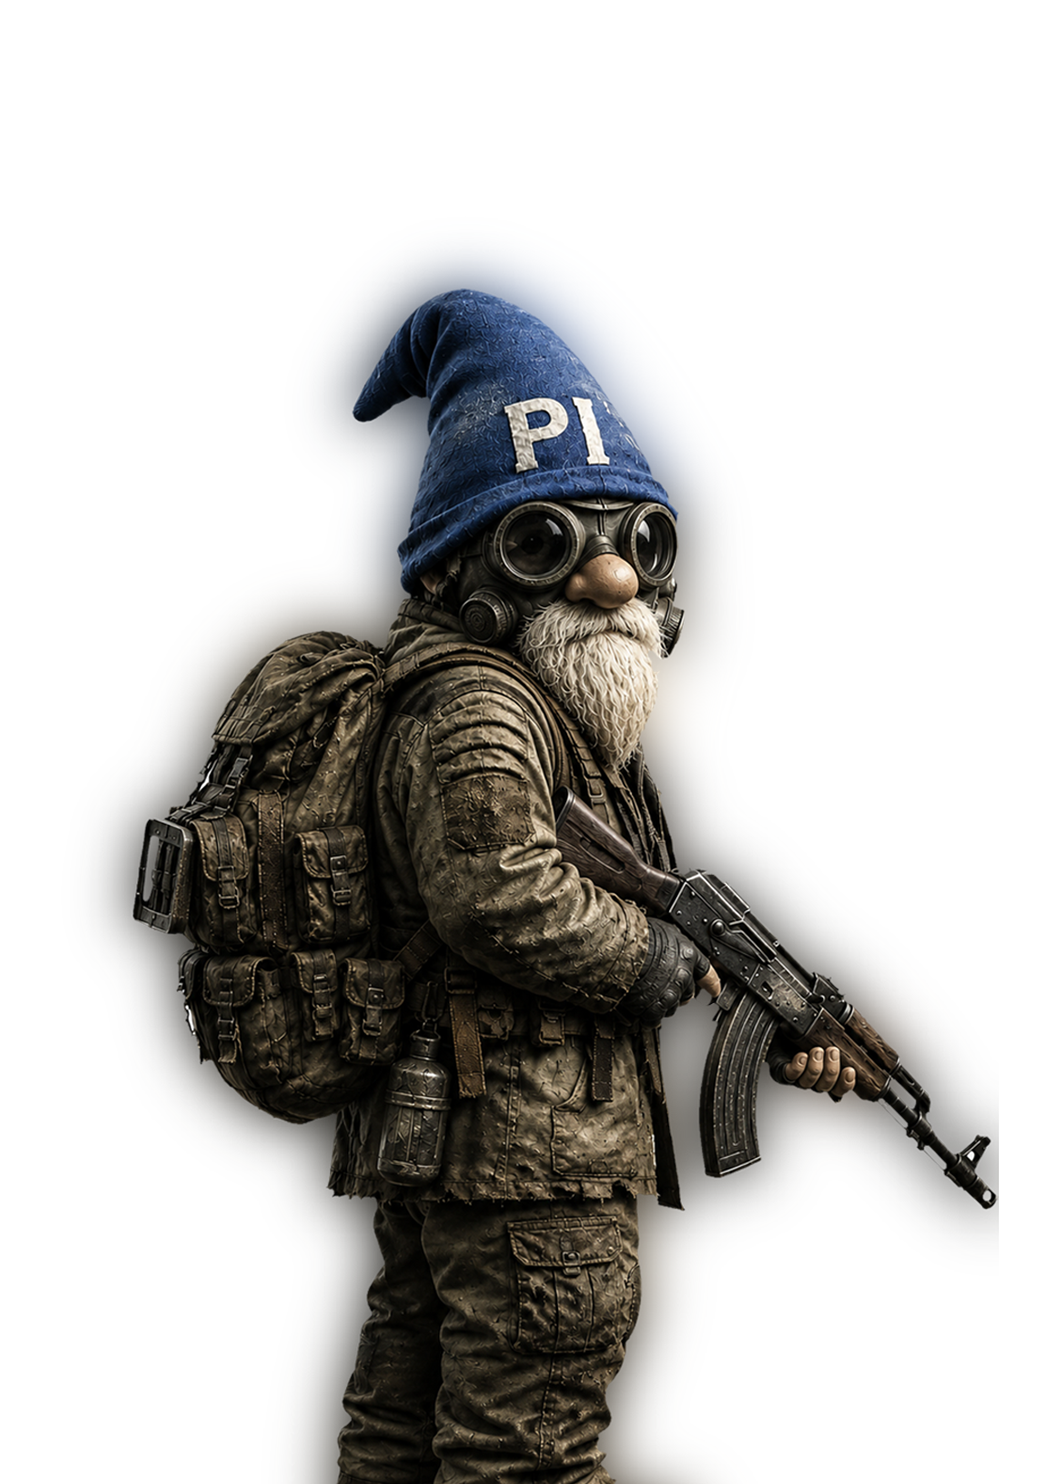
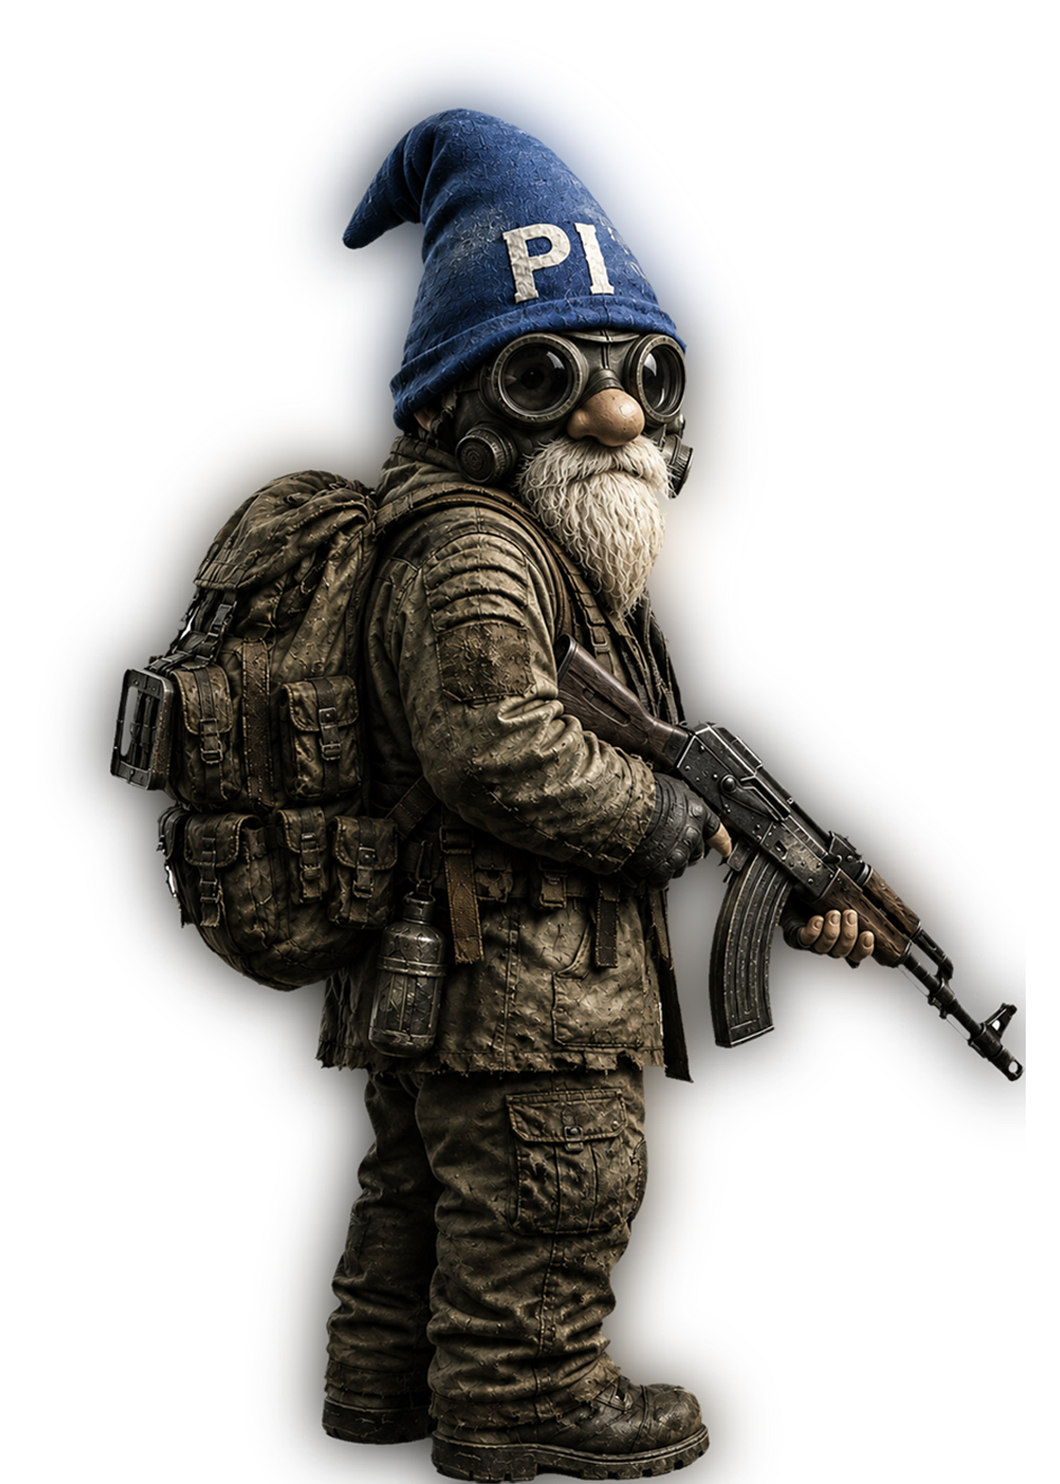
пепепе

diff --git a/index.html b/index.html
@@ -270,7 +270,7 @@
 
   /* ================= HERO ================= */
   .hero{
-    position:relative;min-height:calc(95vh - 100px);display:flex;align-items:center;overflow:hidden;
+    position:relative;min-height:calc(95vh - 160px);display:flex;align-items:center;overflow:hidden;
     background:
       radial-gradient(ellipse 900px 600px at 78% 35%, rgba(255,106,31,0.13), transparent 60%),
       radial-gradient(ellipse 700px 500px at 15% 90%, rgba(168,232,60,0.06), transparent 60%),
@@ -283,12 +283,11 @@
     -webkit-mask-image:radial-gradient(ellipse 800px 500px at 70% 40%, black, transparent 75%);
     mask-image:radial-gradient(ellipse 800px 500px at 70% 40%, black, transparent 75%);
   }
-  .hero-inner{position:relative;z-index:2;display:grid;grid-template-columns:1.2fr 0.8fr;gap:40px;align-items:center;width:100%;padding:64px 60px 40px 180px;max-width:1600px;}
-  .hero-text{}
+.hero-inner{position:relative;z-index:2;display:grid;grid-template-columns:1.2fr 0.8fr;gap:40px;align-items:center;width:100%;padding:48px 60px 24px 180px;max-width:1600px;}  .hero-text{}
   .eyebrow{display:flex;align-items:center;gap:10px;font-family:var(--mono);font-size:11.5px;font-weight:500;letter-spacing:2.5px;text-transform:uppercase;color:var(--toxic);margin-bottom:20px;}
   .eyebrow .bar{width:22px;height:2px;background:var(--toxic);}
   .hero h1{font-size:46px;font-weight:700;line-height:1.08;color:var(--ink);}
-  .hero h1 .accent{color:var(--rust);}
+  .hero h1 .accent{color:var(--rust);background:linear-gradient(100deg,#ffcf7a 0%,var(--rust) 45%,#ff3d1f 100%);-webkit-background-clip:text;background-clip:text;-webkit-text-fill-color:transparent;}
   .hero p.lead{margin-top:22px;font-size:16.5px;line-height:1.65;color:var(--ink-dim);max-width:540px;}
   .cta-row{display:flex;gap:14px;margin-top:32px;flex-wrap:wrap;}
   .btn{display:inline-flex;align-items:center;gap:8px;padding:14px 26px;font-size:13.5px;font-weight:600;letter-spacing:1px;text-transform:uppercase;clip-path:polygon(10px 0,100% 0,calc(100% - 10px) 100%,0 100%);transition:all .15s;}
@@ -300,23 +299,32 @@
   .meta-row span{display:flex;align-items:center;gap:6px;}
   .meta-row .sep{width:1px;height:14px;background:var(--hairline);}
 
-  .hero-art{position:relative;display:flex;justify-content:flex-end;align-items:flex-end;height:740px;transform:translateX(30px);}
-  .hero-art .frame-box{position:relative;z-index:2;width:460px;height:700px;--fc:var(--rust);}
-  .hero-art img{width:100%;height:100%;object-fit:cover;display:block;filter:grayscale(0.15) contrast(1.08) saturate(0.9);
-    -webkit-mask-image:linear-gradient(to bottom, black 72%, transparent 100%);
-    mask-image:linear-gradient(to bottom, black 72%, transparent 100%);}
-  .hero-art .tagline{
-    position:absolute;bottom:14px;left:14px;right:14px;font-family:var(--mono);font-size:10px;letter-spacing:1.5px;
-    color:var(--toxic);text-transform:uppercase;z-index:3;text-shadow:0 2px 8px rgba(0,0,0,0.8);
-  }
-  .hero-art::after{content:"";position:absolute;bottom:0;left:0;right:0;height:140px;background:linear-gradient(to top, var(--bg), transparent);z-index:2;}
+  .hero-art{position:relative;display:flex;justify-content:flex-end;align-items:flex-end;height:660px;transform:translateX(-10px);}
+  .hero-art .frame-box{position:relative;z-index:4;width:500px;height:660px;--fc:var(--rust);}
+.hero-art .tagline{
+  position:absolute;bottom:16px;left:16px;right:16px;z-index:5;
+  display:flex;align-items:center;gap:8px;
+  padding:9px 12px;
+  background:rgba(11,10,7,0.72);
+  border:1px solid rgba(168,232,60,0.28);
+  border-radius:2px;
+  font-family:var(--mono);font-size:10px;letter-spacing:1.5px;
+  color:var(--toxic);text-transform:uppercase;
+  text-shadow:none;
+}
+.hero-art .tagline::before{
+  content:"";width:6px;height:6px;border-radius:50%;flex-shrink:0;
+  background:var(--toxic);box-shadow:0 0 6px var(--toxic);
+  animation:geiger-flicker 2.6s infinite;
+}  .hero-art::after{content:"";position:absolute;bottom:0;left:0;right:0;height:140px;background:linear-gradient(to top, var(--bg), transparent);z-index:2;}
   @media (max-width:900px){
     .hero-inner{grid-template-columns:1fr;text-align:center;padding-top:36px;}
     .hero h1{font-size:36px;}
     .eyebrow,.cta-row,.meta-row{justify-content:center;}
     .hero p.lead{margin-left:auto;margin-right:auto;}
     .hero-art{height:360px;order:-1;}
-    .hero-art .frame-box{width:240px;height:340px;}
+    .badges{flex-direction:column;align-items:center;justify-content:flex-start;gap:20px;padding:20px 24px 0;}
+    .hero-inner{padding:36px 24px 40px;}
   }
 
   /* ---------- ticker ---------- */
@@ -444,12 +452,12 @@
   display: inline-block;
   position: relative;
   animation: glitch 7s ease-in-out infinite, accent-glow 2.6s ease-in-out infinite;
-  text-shadow: 0 0 10px rgba(168,232,60,0.5), 0 0 24px rgba(168,232,60,0.22), 0 0 46px rgba(255,106,31,0.12);
+  filter: drop-shadow(0 0 12px rgba(255,106,31,0.45));
 }
 
 @keyframes accent-glow {
-  0%,100% { text-shadow: 0 0 10px rgba(168,232,60,0.45), 0 0 22px rgba(168,232,60,0.2), 0 0 40px rgba(255,106,31,0.1); }
-  50% { text-shadow: 0 0 16px rgba(168,232,60,0.7), 0 0 34px rgba(168,232,60,0.32), 0 0 56px rgba(255,106,31,0.16); }
+  0%,100% { filter: drop-shadow(0 0 10px rgba(255,106,31,0.4)) drop-shadow(0 0 26px rgba(255,61,31,0.22)); }
+  50% { filter: drop-shadow(0 0 18px rgba(255,170,90,0.7)) drop-shadow(0 0 38px rgba(255,61,31,0.4)); }
 }
 
 @keyframes scanline-move {
@@ -564,73 +572,31 @@ body::before{
   animation:staticHiss 7s steps(12) infinite;
 }
 
-
-
-/* ---------- гном-маскот: гигантский фоновый персонаж хиро-блока (глитч/мерцание) ---------- */
-.mascot-bg{
-  position:absolute;z-index:1;
-  left:-30px;bottom:0;
-  height:92vh;width:auto;max-width:38vw;
-  pointer-events:none;
-  opacity:0;filter:blur(10px);
-  transform:translateX(-40px) scale(0.94);
-  overflow:hidden;
-}
-.mascot-crop{
-  height:100%;width:auto;display:block;position:relative;
-  transform:scale(1.08);transform-origin:center bottom;
-  filter:blur(0.6px);
-}
-.mascot-bg .layer{height:100%;width:auto;display:block;
+/* ---------- свопер: гном и сталкер в одной рамке, смена каждые 5 сек ---------- */
+.frame-box{overflow:hidden;}
+.swap-img{position:absolute;inset:0;width:100%;height:100%;object-fit:cover;display:block;
+  filter:grayscale(0.15) contrast(1.08) saturate(0.9);
   -webkit-mask-image:linear-gradient(to bottom, black 72%, transparent 100%);
   mask-image:linear-gradient(to bottom, black 72%, transparent 100%);
+  opacity:1;transition:opacity .18s steps(3);
 }
-.mascot-bg .layer.r,.mascot-bg .layer.c{position:absolute;inset:0;opacity:0;mix-blend-mode:screen;}
-.mascot-bg .layer.base{filter:grayscale(0.25) contrast(1.1) saturate(0.9) brightness(0.92);mix-blend-mode:multiply;}
-.mascot-bg .layer.r{filter:brightness(1.2) sepia(1) hue-rotate(-50deg) saturate(6);}
-.mascot-bg .layer.c{filter:brightness(1.2) sepia(1) hue-rotate(140deg) saturate(6);}
+.swap-img.gnome{opacity:0;object-position:top center;filter:grayscale(0.25) contrast(1.1) saturate(0.9) brightness(0.95);}
+.frame-box.show-gnome .swap-img.stalker{opacity:0;}
+.frame-box.show-gnome .swap-img.gnome{opacity:1;}
+.frame-box.glitching .swap-img{animation:swapGlitch .5s steps(2) 1;}
+@keyframes swapGlitch{
+  0%,100%{clip-path:inset(0 0 0 0);transform:translate(0,0);filter:hue-rotate(0deg) saturate(1) grayscale(0.15) contrast(1.08);}
+  15%{clip-path:inset(10% 0 55% 0);transform:translate(6px,0);}
+  30%{clip-path:inset(55% 0 8% 0);transform:translate(-6px,0);filter:hue-rotate(60deg) saturate(2.2);}
+  45%{clip-path:inset(25% 0 40% 0);transform:translate(4px,0);}
+  60%{clip-path:inset(0 0 0 0);transform:translate(0,0);}
+  75%{clip-path:inset(60% 0 5% 0);transform:translate(-4px,0);filter:hue-rotate(-40deg) saturate(2);}
+  90%{clip-path:inset(0 0 0 0);transform:translate(0,0);}
+}
 
-.mascot-bg.in{
-  animation:mascotbg-in 1s steps(6) forwards, mascotbg-idle 7s ease-in-out 1.2s infinite;
-}
-.mascot-bg.in .layer.r{animation:mascotbg-rgb-r 5.6s steps(1) infinite;}
-.mascot-bg.in .layer.c{animation:mascotbg-rgb-c 5.6s steps(1) infinite;}
-.mascot-bg.in .layer.base{animation:mascotbg-jump 5.6s steps(1) infinite;}
+.frame-box .swap-img{z-index:1;}
+.frame::before,.frame::after,.frame i{z-index:3;}
 
-@keyframes mascotbg-in{
-  0%{opacity:0;transform:translateX(-40px) scale(0.94);filter:blur(10px);}
-  22%{opacity:0.5;transform:translateX(6px) scale(1.01);filter:blur(0.3px);}
-  34%{opacity:0.12;}
-  48%{opacity:0.55;}
-  100%{opacity:0.68;transform:translateX(0) scale(1);filter:blur(0.3px);}
-}
-@keyframes mascotbg-idle{
-  0%,100%{transform:translateX(0) translateY(0);}
-  50%{transform:translateX(1px) translateY(-4px) rotate(0.3deg);}
-  70%{transform:translateX(-1px) translateY(0);}
-}
-@keyframes mascotbg-jump{
-  0%,92%,100%{clip-path:inset(0);transform:translate(0,0);}
-  93%{clip-path:inset(8% 0 55% 0);transform:translate(-5px,0);}
-  94%{clip-path:inset(55% 0 4% 0);transform:translate(5px,0);}
-  95%{clip-path:inset(28% 0 38% 0);transform:translate(-4px,0);filter:hue-rotate(30deg) saturate(1.8) grayscale(0.25) contrast(1.1) brightness(0.92);}
-  96%{clip-path:inset(0);transform:translate(0,0);}
-}
-@keyframes mascotbg-rgb-r{
-  0%,92%,100%{opacity:0;transform:translate(0,0);}
-  93%{opacity:.55;transform:translate(-5px,0);}
-  95%{opacity:.4;transform:translate(5px,0);}
-  96%{opacity:0;}
-}
-@keyframes mascotbg-rgb-c{
-  0%,92%,100%{opacity:0;transform:translate(0,0);}
-  93%{opacity:.55;transform:translate(5px,0);}
-  95%{opacity:.4;transform:translate(-5px,0);}
-  96%{opacity:0;}
-}
-@media (max-width:900px){
-  .mascot-bg{height:52vh;left:-10px;max-width:88vw;}
-}
 </style>
 </head>
 <body>
@@ -725,17 +691,10 @@ body::before{
 
 <header class="hero" id="hero">
   <div class="hero-grid"></div>
-  <div class="mascot-bg" id="mascotBg" aria-hidden="true">
-    <div class="mascot-crop">
-      <img class="layer base" src="image/mascot-gnome.png" alt="">
-      <img class="layer r" src="image/mascot-gnome.png" alt="">
-      <img class="layer c" src="image/mascot-gnome.png" alt="">
-    </div>
-  </div>
   <div class="wrap hero-inner">
     <div class="hero-text">
       <div class="eyebrow"><span class="bar"></span>Дело №0063 &middot; Терминал доступа к архиву</div>
-      <h1>Какое прохождение<br>— <span class="accent">единственно верное</span>?</h1>
+      <h1>Какое прохождение<br>— <span class="accent">единственно верное?</span></h1>
       <p class="lead">У оригинального S.T.A.L.K.E.R.: Shadow of Chernobyl семь концовок. Пять из них — иллюзии, которые Монолит показывает тем, кто свернул не туда: за деньгами, властью или местью. Разбираем, что на самом деле определяет финал — и какой путь заслуживает звания «правильного».</p>
       <div class="cta-row">
         <a class="btn btn-solid" href="#вердикт">Смотреть вердикт</a>
@@ -750,9 +709,10 @@ body::before{
       </div>
     </div>
     <div class="hero-art">
-      <div class="frame-box frame"><i></i>
-        <img src="image/hero-stalker.jpg" alt="Сталкер в противогазе на фоне Зоны" loading="lazy">
-        <div class="tagline">Мечен &middot; статус: жив &middot; координаты: неизвестны</div>
+      <div class="frame-box frame" id="heroSwap"><i></i>
+        <img class="swap-img stalker" src="image/hero-stalker.jpg" alt="Сталкер в противогазе на фоне Зоны" loading="lazy">
+        <img class="swap-img gnome" src="image/mascot-gnome.png" alt="Гном-талисман S.T.A.L.K.E.R.">
+        <div class="tagline">Меченый &middot; статус: жив &middot; координаты: неизвестны</div>
       </div>
     </div>
   </div>
@@ -1114,7 +1074,19 @@ body::before{
     setTimeout(()=>{ site.style.animation = ''; }, 620);
 
     // Гном-маскот проявляется на фоне вместе с открытием сайта
-    document.getElementById('mascotBg')?.classList.add('in');
+    (function(){
+  const frame = document.getElementById('heroSwap');
+  if(!frame) return;
+  let showingGnome = false;
+  setInterval(()=>{
+    frame.classList.add('glitching');
+    setTimeout(()=>{
+      showingGnome = !showingGnome;
+      frame.classList.toggle('show-gnome', showingGnome);
+    }, 250);
+    setTimeout(()=>{ frame.classList.remove('glitching'); }, 500);
+  }, 5000);
+})();
 
     setTimeout(()=>{
       const gate = document.getElementById('gate');
